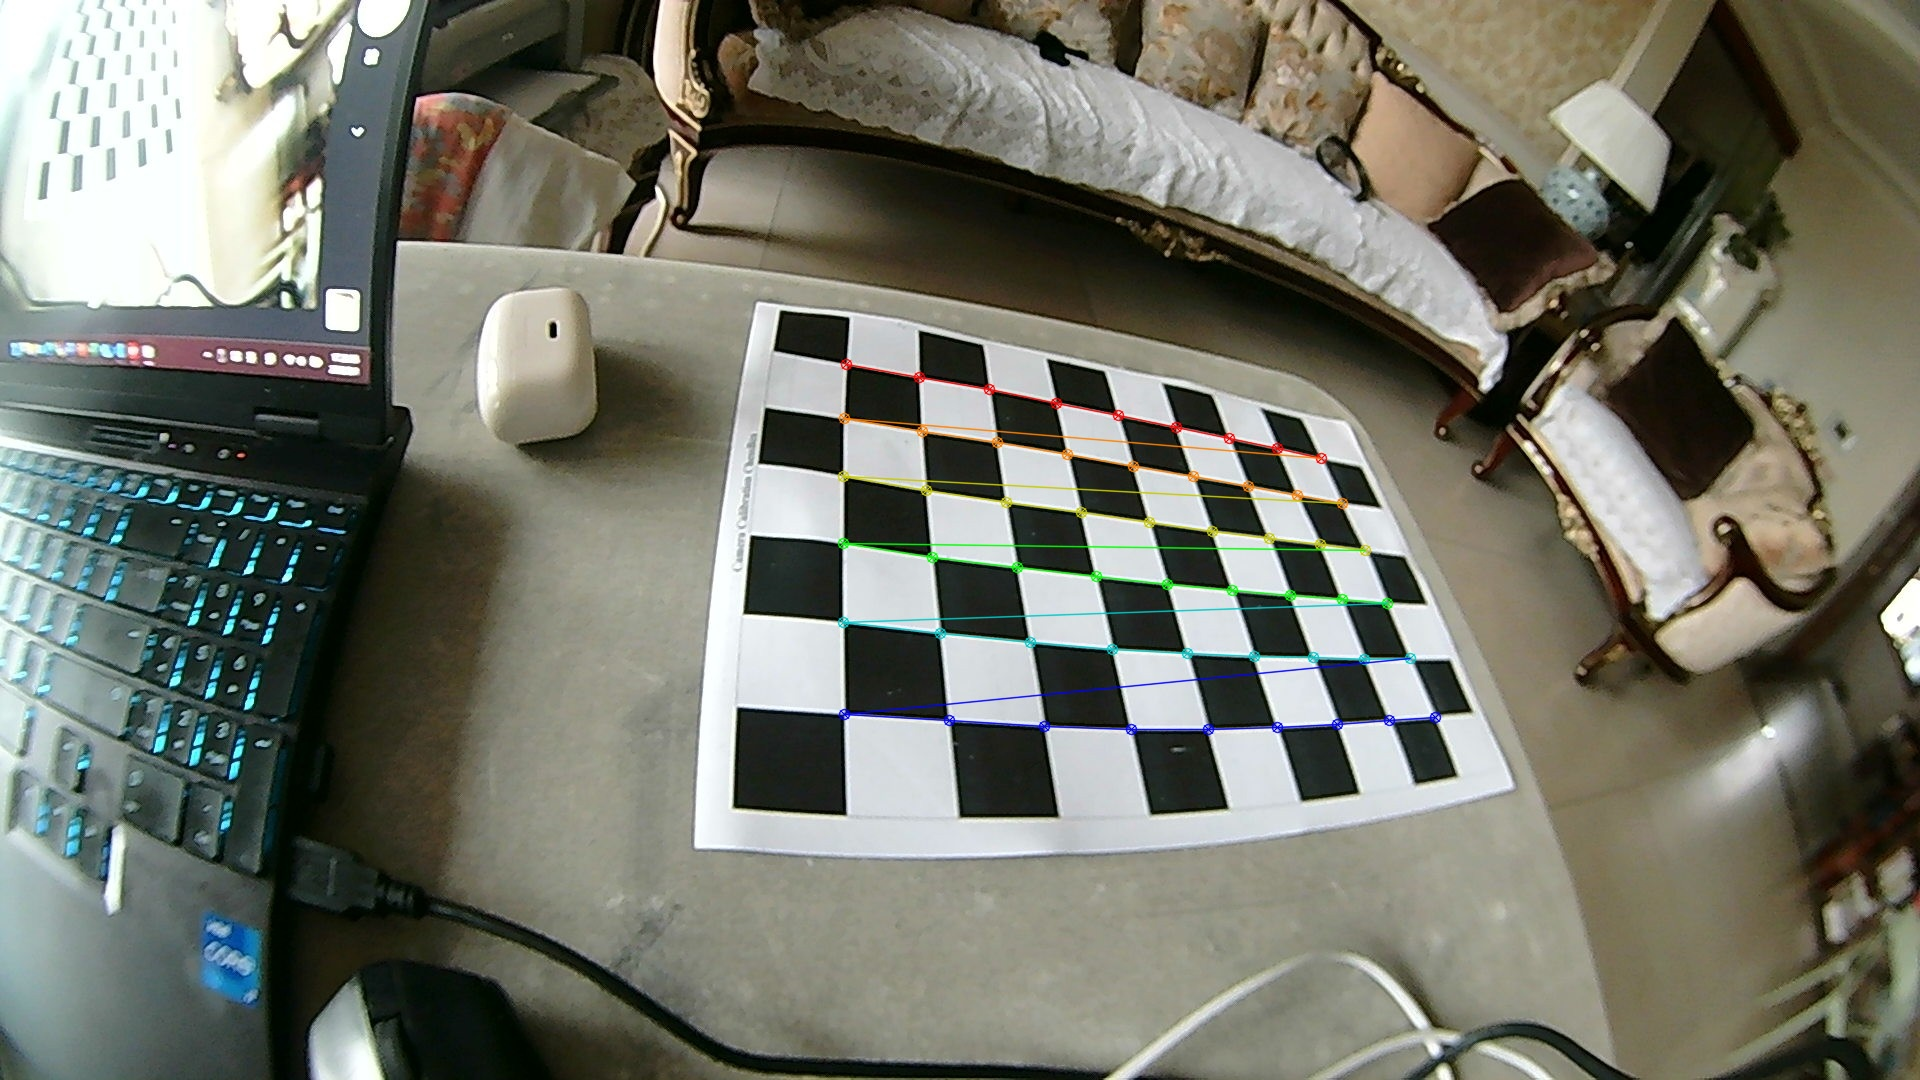
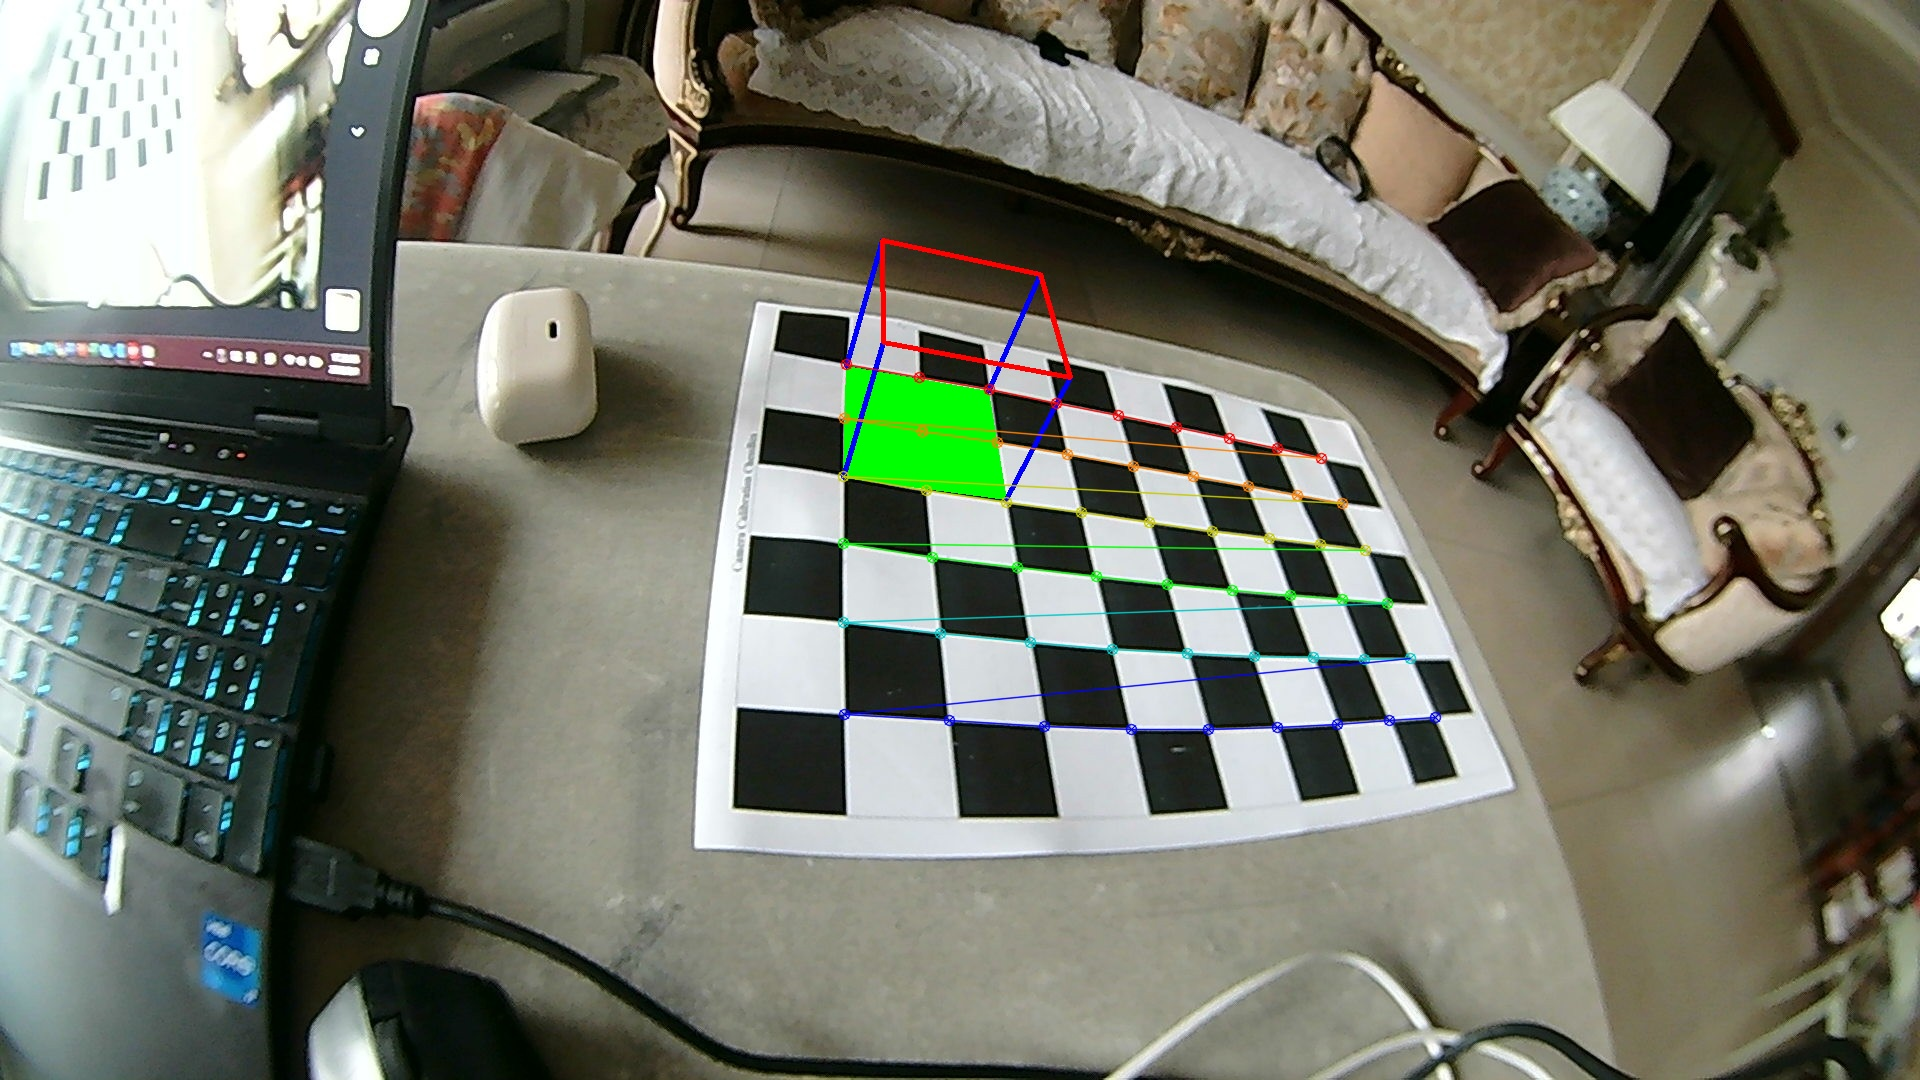
Add Pose Estimation base on the Camera Calibration
exploit calib3d module to create some 3D effects in images
- Draw 3D cube box to simulate the 3D effect

Changed region(s): [[0.4375, 0.2139, 0.5625, 0.4583]]

diff --git a/develop/PoseEstimation.py b/develop/PoseEstimation.py
@@ -1,0 +1,54 @@
+import cv2
+import numpy as np
+import glob
+import os
+
+chessboard_size = (9, 6)
+
+objp = np.zeros((chessboard_size[0] * chessboard_size[1], 3), np.float32)
+objp[:, :2] = np.mgrid[0:chessboard_size[0], 0:chessboard_size[1]].T.reshape(-1, 2)
+axis = np.float32([[0,0,0], [0,2,0], [2,2,0], [2,0,0],
+                   [0,0,-2],[0,2,-2],[2,2,-2],[2,0,-2] ])
+criteria = (cv2.TERM_CRITERIA_EPS + cv2.TERM_CRITERIA_MAX_ITER, 30, 0.001)
+
+def draw(img, corners, imgpts):
+    imgpts = np.int32(imgpts).reshape(-1,2)
+ 
+    # draw ground floor in green
+    img = cv2.drawContours(img, [imgpts[:4]],-1,(0,255,0),-3)
+ 
+    # draw pillars in blue color
+    for i,j in zip(range(4),range(4,8)):
+        img = cv2.line(img, tuple(imgpts[i]), tuple(imgpts[j]),(255),3)
+ 
+    # draw top layer in red color
+    img = cv2.drawContours(img, [imgpts[4:]],-1,(0,0,255),3)
+ 
+    return img
+
+# 存储对象点和图像点
+objpoints = []  # 3D真实世界坐标
+imgpoints = []  # 2D图像坐标
+
+# 读取棋盘格图像
+images = glob.glob('develop/calibrateIMG/*.jpg')
+mtx = np.load('camera_matrix.npy')
+dist = np.load('dist_coeffs.npy')
+
+for fname in images:
+    img = cv2.imread(fname)
+    gray = cv2.cvtColor(img,cv2.COLOR_BGR2GRAY)
+    ret, corners = cv2.findChessboardCorners(gray, chessboard_size, None)
+    
+    if ret == True:
+        corners2 = cv2.cornerSubPix(gray,corners,(11,11),(-1,-1),criteria)
+
+        # Find the rotation and translation vectors.
+        ret,rvecs, tvecs = cv2.solvePnP(objp, corners2, mtx, dist)
+
+        # project 3D points to image plane
+        imgpts, jac = cv2.projectPoints(axis, rvecs, tvecs, mtx, dist)
+
+        img = draw(img,corners2,imgpts)
+        cv2.drawChessboardCorners(img, chessboard_size, corners2, ret)
+        cv2.imwrite(f'develop/corner/{os.path.basename(fname)}', img)
